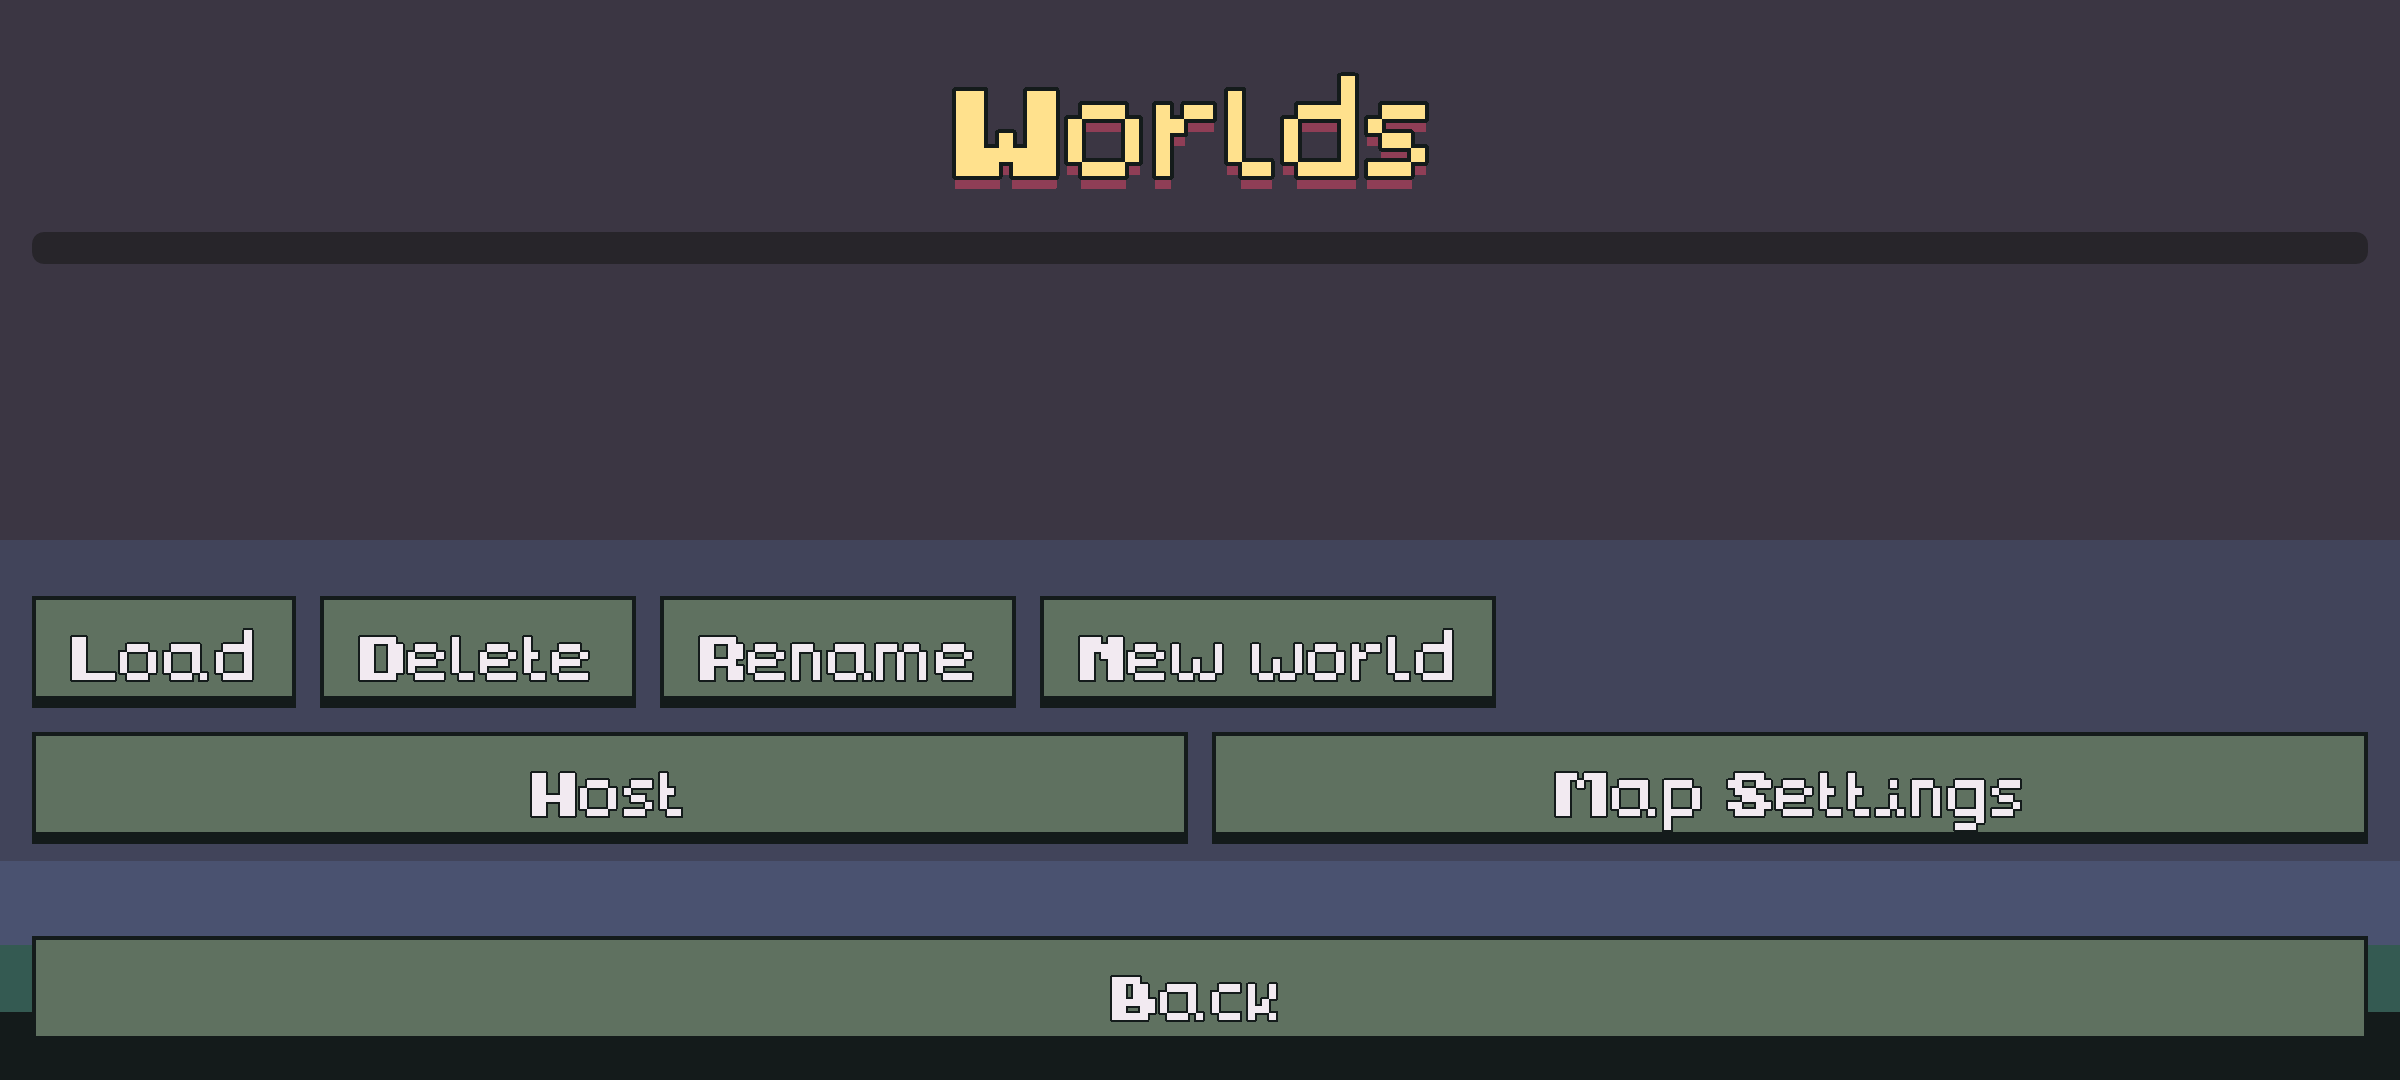
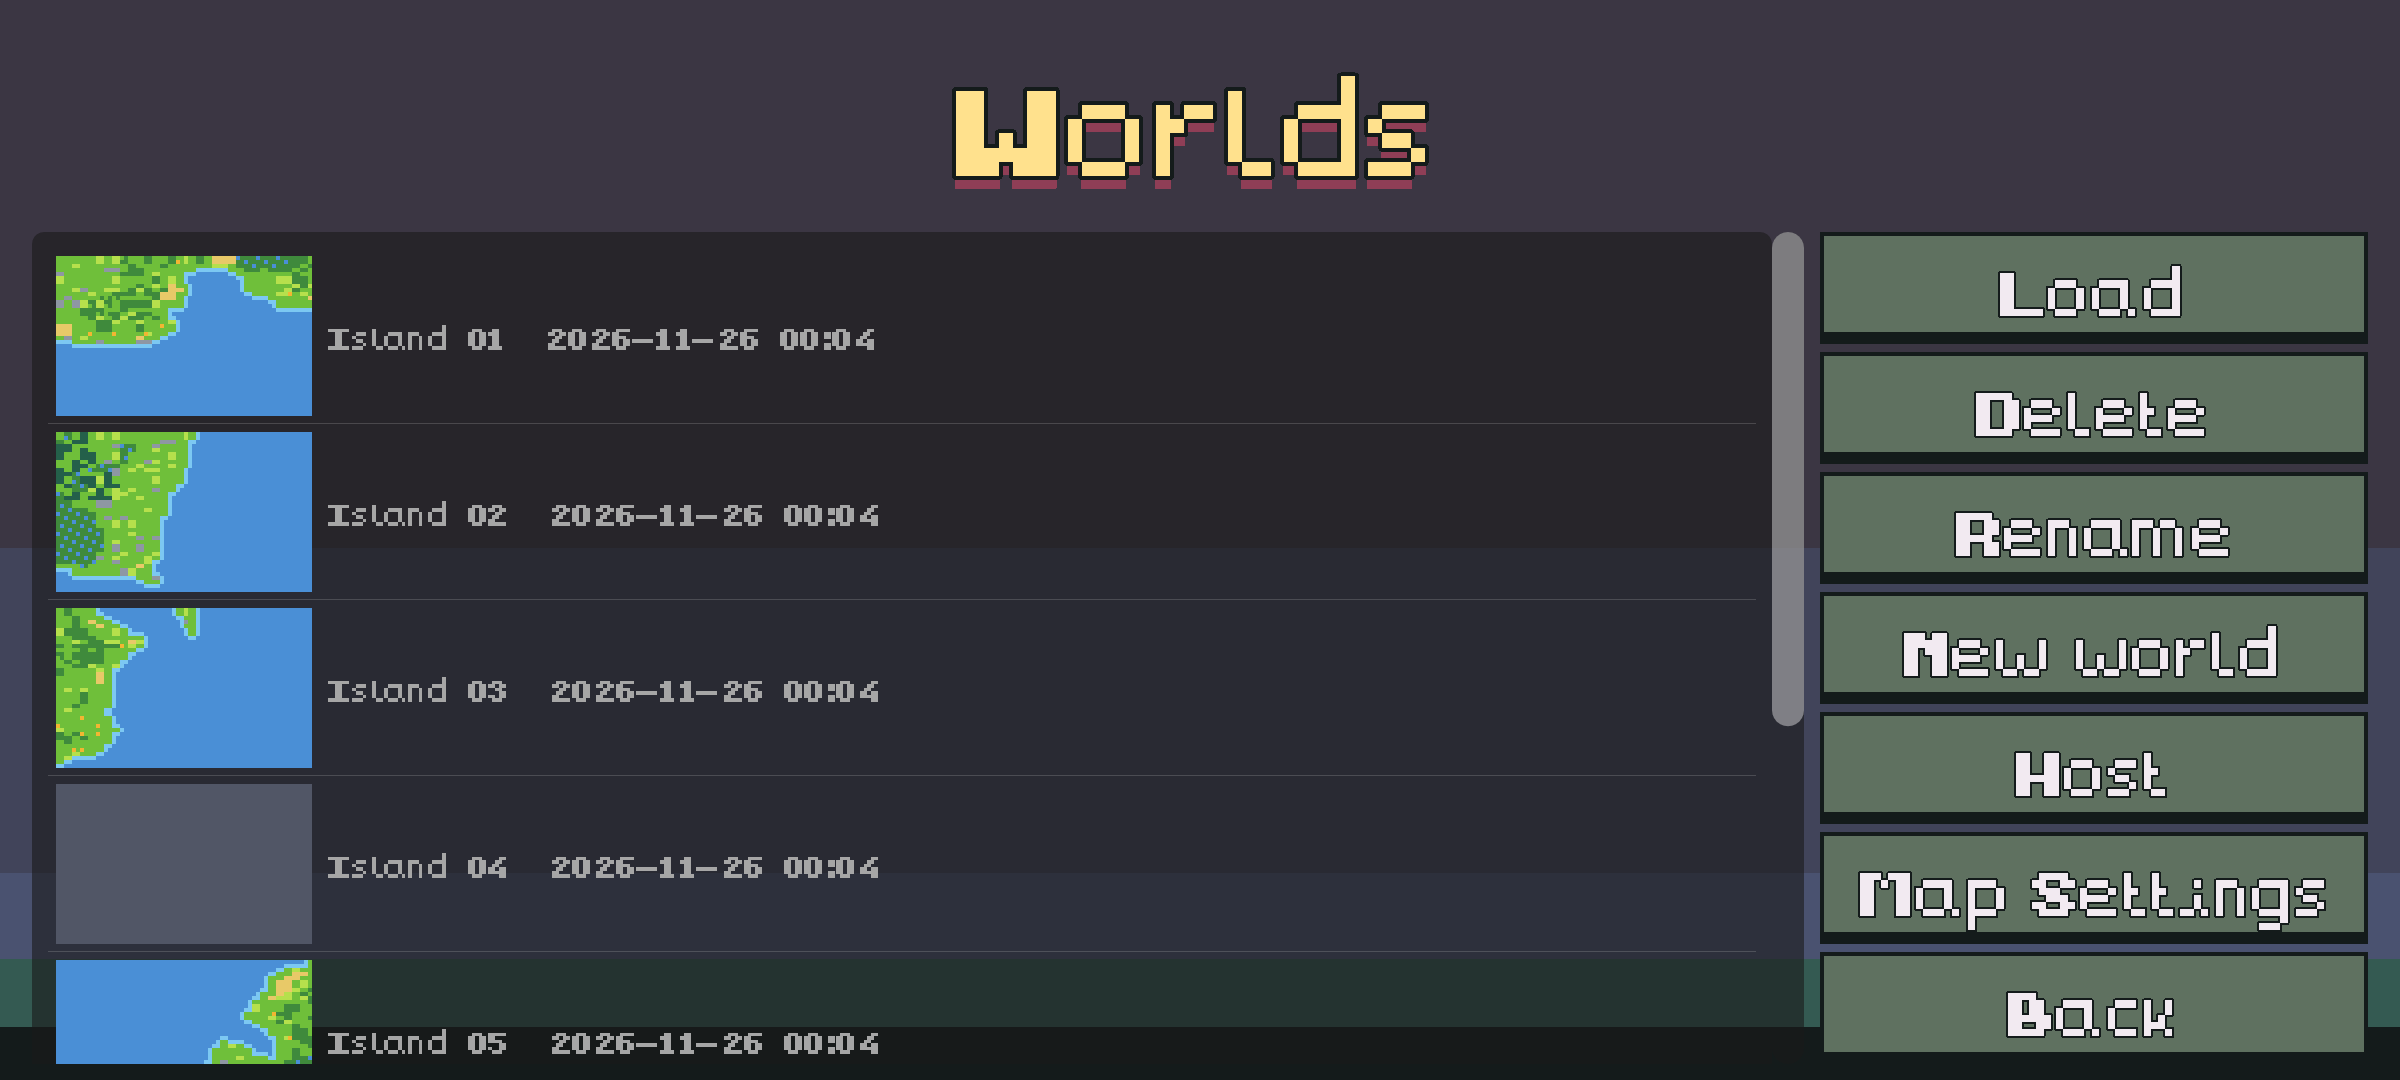
Worlds screen: give the list most of the space
Actions sit in a slim column on the right, bottom-aligned for a
landscape thumb, so Host, Map Settings and Back no longer stack
across the full width under the list.

diff --git a/.cursor/skills/verify-flagoria/features/menu-worlds-root.md b/.cursor/skills/verify-flagoria/features/menu-worlds-root.md
@@ -7,10 +7,12 @@ Source: Scripts/shell/menu_worlds.gd
 
 The Flagoria menu offers **Worlds**, **Multiplayer** and **Settings**. Worlds keeps saved-world actions and opens Map Settings. Multiplayer holds the address, Join and connection feedback. Settings keeps the volume and gameplay rows.
 
+The worlds list uses most of the screen. Actions sit in a slim column on the right, bottom-aligned for a landscape thumb.
+
 Run `bin/launch.sh drives/menu_worlds_root.gd --display` from the verify-flagoria skill. Compare the five 2400×1080 captures.
 
 - `main-menu` shows Flagoria above Worlds, Multiplayer and Settings in order.
-- `worlds` shows the scrollable save list, its actions, Host, Map Settings and Back.
+- `worlds` shows the save list taking most of the space, with a slim right-hand column for Load, Delete, Rename, New world, Host, Map Settings and Back.
 - `map-settings` shows Map Generation. Back returns to Worlds, then Worlds Back returns to the root.
 - `multiplayer` shows the address, Join and Back. The status appears when there is a join error.
 - `settings` shows the settings rows and Back returns to the root.
